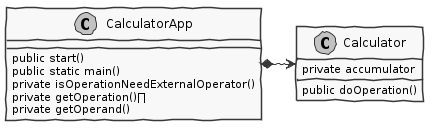
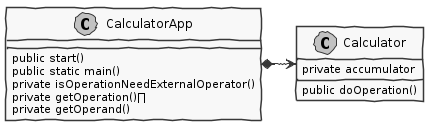
reverted the puml png files to build

diff --git a/odsoft/exercise1/calculator/src/main/javadoc/overview.html b/odsoft/exercise1/calculator/src/main/javadoc/overview.html
@@ -16,11 +16,11 @@
     <br >
 
     <h2>Class Diagram</h2>
-    <img src="src/puml/com/twu/calculator/class-diagram.png" alt="calculator class diagram" >
+    <img src="/build/puml/com/twu/calculator/class-diagram.png" alt="calculator class diagram" >
     <br >
 
     <h2>Sequence Diagram</h2>
-    <img src="src/puml/com/twu/calculator/sequence-diagram.png" alt="calculator sequence diagram" >
+    <img src="/build/puml/com/twu/calculator/sequence-diagram.png" alt="calculator sequence diagram" >
     <br >
 
     @author Alexandre Braganca
